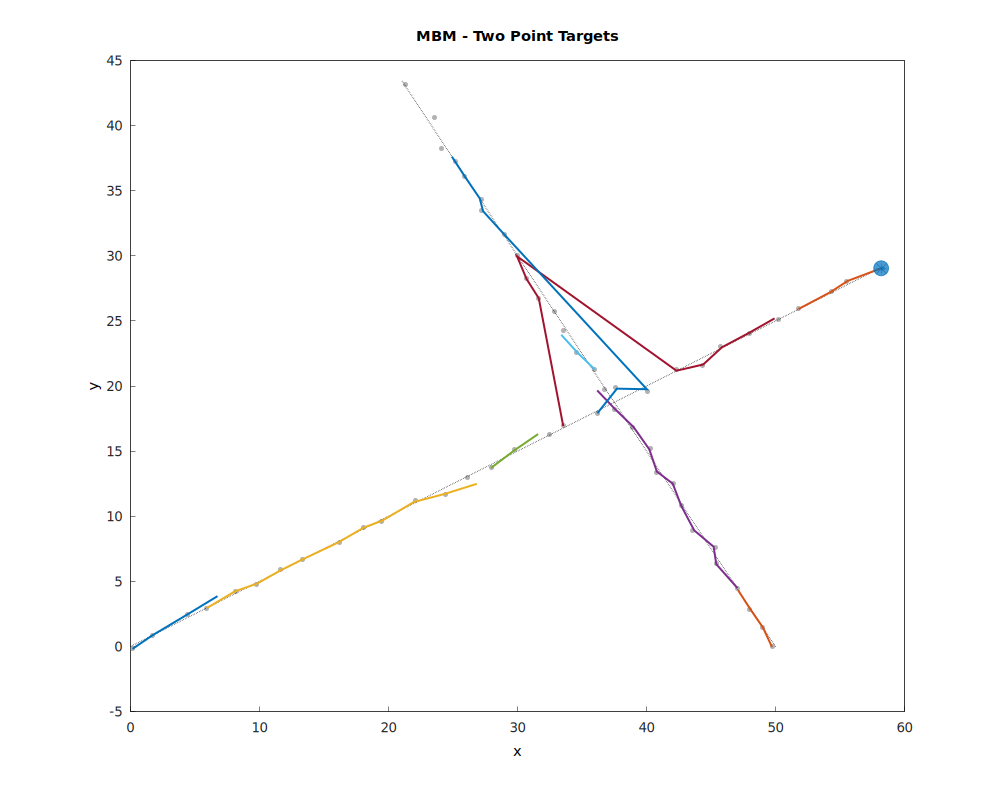
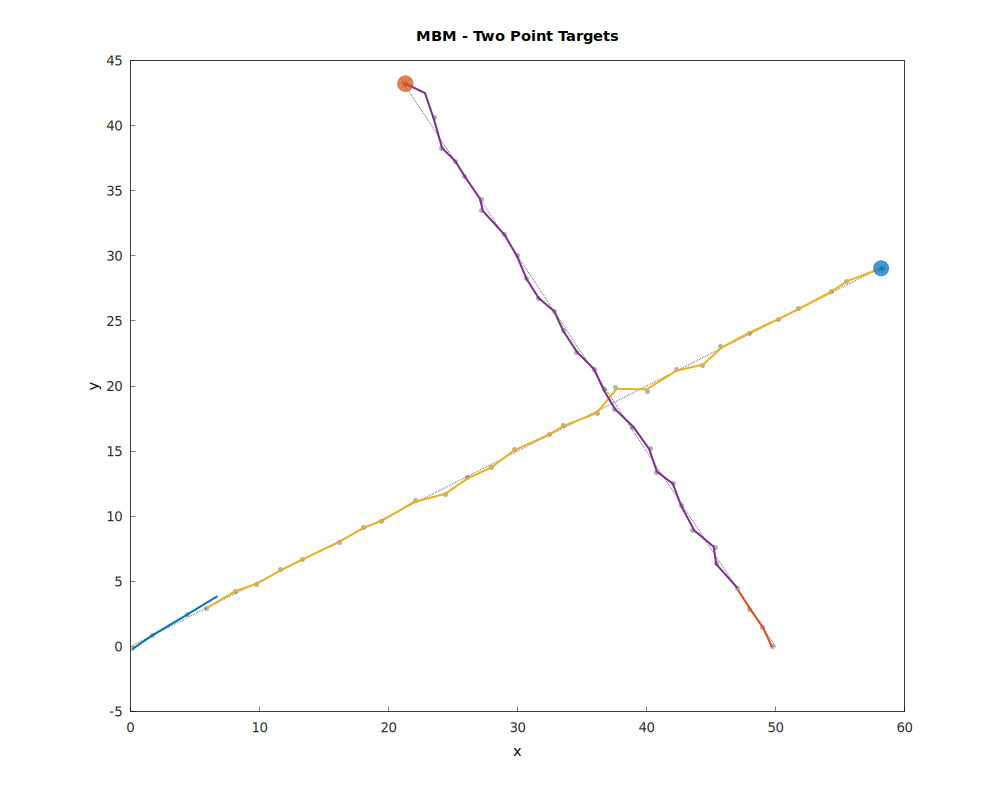
Clustering Fix.

diff --git a/include/brew/multi_target/pmbm.hpp b/include/brew/multi_target/pmbm.hpp
@@ -176,7 +176,15 @@ public:
         }
 
         const int m = static_cast<int>(meas_groups.size());
-        const double kappa = clutter_rate_ * clutter_density_;
+        const double kappa_base = clutter_rate_ * clutter_density_;
+
+        // Pre-compute per-cluster clutter term: for a cluster of W measurements,
+        // the clutter likelihood is the product of independent clutter intensities.
+        std::vector<double> kappa_vec(m);
+        for (int j = 0; j < m; ++j) {
+            const int W = static_cast<int>(meas_groups[j].cols());
+            kappa_vec[j] = (W > 1) ? std::pow(kappa_base, W) : kappa_base;
+        }
 
         // --- Create new Bernoulli tracks from Poisson for each measurement ---
         // For each measurement, compute the likelihood against all Poisson components
@@ -220,15 +228,16 @@ public:
                 }
             }
 
+            const double kappa_j = kappa_vec[j];
             if (total_weight > 0.0 && best_dist) {
                 // Existence probability for new Bernoulli from Poisson
-                double r_new = total_weight / (kappa + total_weight);
+                double r_new = total_weight / (kappa_j + total_weight);
                 auto bern = std::make_unique<distributions::Bernoulli<T>>(
                     r_new, std::move(best_dist), next_track_id_++);
                 new_tracks[j].bernoulli = std::move(bern);
-                new_tracks[j].log_likelihood = std::log(kappa + total_weight);
+                new_tracks[j].log_likelihood = std::log(kappa_j + total_weight);
             } else {
-                new_tracks[j].log_likelihood = std::log(kappa);
+                new_tracks[j].log_likelihood = std::log(std::max(kappa_j, 1e-300));
             }
         }
 
@@ -304,8 +313,8 @@ public:
                         cache[i][j].likelihood = qz;
 
                         double det_likelihood = prob_detection_ * r * qz;
-                        if (det_likelihood > 0.0 && kappa > 0.0) {
-                            cost(i, j) = -std::log(det_likelihood / kappa);
+                        if (det_likelihood > 0.0 && kappa_vec[j] > 0.0) {
+                            cost(i, j) = -std::log(det_likelihood / kappa_vec[j]);
                         }
                     }
                 }

diff --git a/include/brew/multi_target/mbm.hpp b/include/brew/multi_target/mbm.hpp
@@ -190,7 +190,15 @@ public:
             return;
         }
 
-        const double kappa = clutter_rate_ * clutter_density_;
+        const double kappa_base = clutter_rate_ * clutter_density_;
+
+        // Pre-compute per-cluster clutter term: for a cluster of W measurements,
+        // the clutter likelihood is the product of independent clutter intensities.
+        std::vector<double> kappa_vec(m);
+        for (int j = 0; j < m; ++j) {
+            const int W = static_cast<int>(meas_groups[j].cols());
+            kappa_vec[j] = (W > 1) ? std::pow(kappa_base, W) : kappa_base;
+        }
 
         std::vector<GlobalHypothesis> new_hypotheses;
 
@@ -241,8 +249,8 @@ public:
 
                         // Cost = -log(detection_likelihood / clutter_likelihood)
                         double det_likelihood = prob_detection_ * r * qz;
-                        if (det_likelihood > 0.0 && kappa > 0.0) {
-                            cost(i, j) = -std::log(det_likelihood / kappa);
+                        if (det_likelihood > 0.0 && kappa_vec[j] > 0.0) {
+                            cost(i, j) = -std::log(det_likelihood / kappa_vec[j]);
                         }
                     }
                 }

diff --git a/include/brew/multi_target/phd.hpp b/include/brew/multi_target/phd.hpp
@@ -156,9 +156,15 @@ public:
             }
 
             // Normalize weights with clutter
+            // For extended targets, the clutter term for a cluster of W
+            // measurements is the product of independent clutter intensities.
             double w_sum = 0.0;
             for (double w : w_lst) w_sum += w;
-            double denom = clutter_rate_ * clutter_density_ + w_sum;
+            const int W = static_cast<int>(meas.cols());
+            double clutter_term = (W > 1)
+                ? std::pow(clutter_rate_ * clutter_density_, W)
+                : clutter_rate_ * clutter_density_;
+            double denom = clutter_term + w_sum;
 
             for (std::size_t i = 0; i < w_lst.size(); ++i) {
                 corrected_mix.add_component(std::move(d_lst[i]), w_lst[i] / denom);

diff --git a/tests/test_phd_trajectory_tracking.cpp b/tests/test_phd_trajectory_tracking.cpp
@@ -4,6 +4,7 @@
 #include "brew/filters/trajectory_gaussian_ekf.hpp"
 #include "brew/filters/trajectory_ggiw_ekf.hpp"
 #include "brew/dynamics/integrator_2d.hpp"
+#include "brew/clustering/dbscan.hpp"
 
 using namespace brew;
 
@@ -172,6 +173,7 @@ TEST(PHDTrajectoryTracking, ExtendedTargetGGIW) {
     phd.set_extract_threshold(0.4);
     phd.set_gate_threshold(25.0);
     phd.set_extended_target(true);
+    phd.set_cluster_object(std::make_shared<clustering::DBSCAN>(5.0, 2));
 
 #ifdef BREW_ENABLE_PLOTTING
     test::TrackingPlotData plot_data(static_cast<int>(scenario.targets.size()));

diff --git a/tests/test_phd_tracking.cpp b/tests/test_phd_tracking.cpp
@@ -4,6 +4,7 @@
 #include "brew/filters/ekf.hpp"
 #include "brew/filters/ggiw_ekf.hpp"
 #include "brew/dynamics/integrator_2d.hpp"
+#include "brew/clustering/dbscan.hpp"
 
 using namespace brew;
 
@@ -164,6 +165,7 @@ TEST(PHDTracking, ExtendedTargetGGIW) {
     phd.set_extract_threshold(0.4);
     phd.set_gate_threshold(25.0);
     phd.set_extended_target(true);
+    phd.set_cluster_object(std::make_shared<clustering::DBSCAN>(5.0, 2));
 
 #ifdef BREW_ENABLE_PLOTTING
     test::TrackingPlotData plot_data(static_cast<int>(scenario.targets.size()));

diff --git a/tests/test_pmbm_tracking.cpp b/tests/test_pmbm_tracking.cpp
@@ -4,6 +4,7 @@
 #include "brew/filters/ekf.hpp"
 #include "brew/filters/ggiw_ekf.hpp"
 #include "brew/dynamics/integrator_2d.hpp"
+#include "brew/clustering/dbscan.hpp"
 
 using namespace brew;
 
@@ -183,6 +184,7 @@ TEST(PMBMTracking, ExtendedTargetGGIW) {
     pmbm.set_gate_threshold(25.0);
     pmbm.set_k_best(5);
     pmbm.set_extended_target(true);
+    pmbm.set_cluster_object(std::make_shared<clustering::DBSCAN>(5.0, 2));
 
 #ifdef BREW_ENABLE_PLOTTING
     test::TrackingPlotData plot_data(static_cast<int>(scenario.targets.size()));
